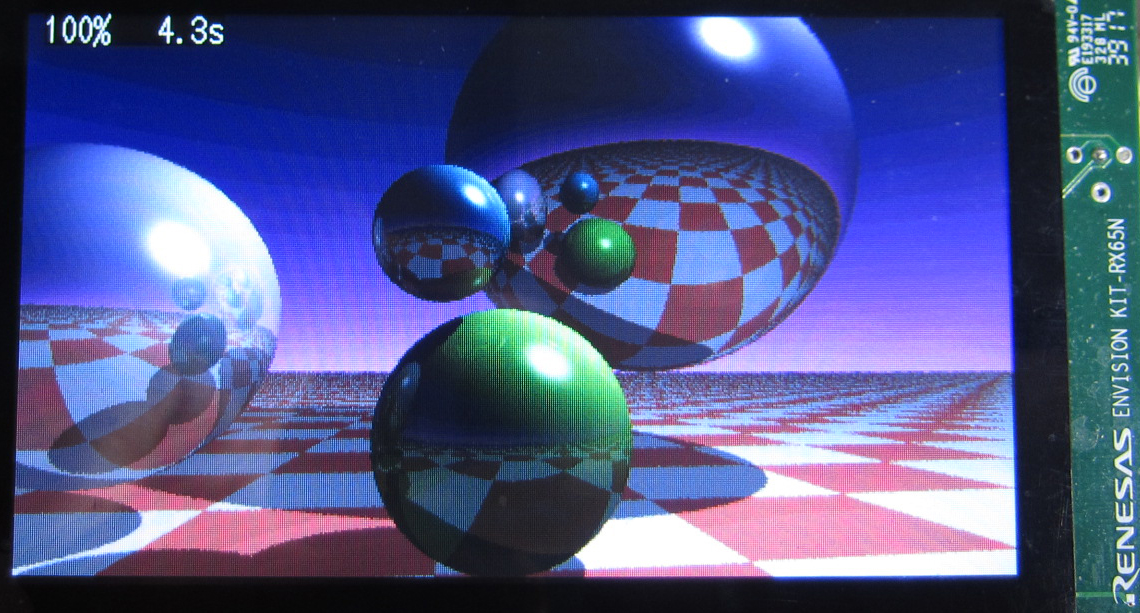
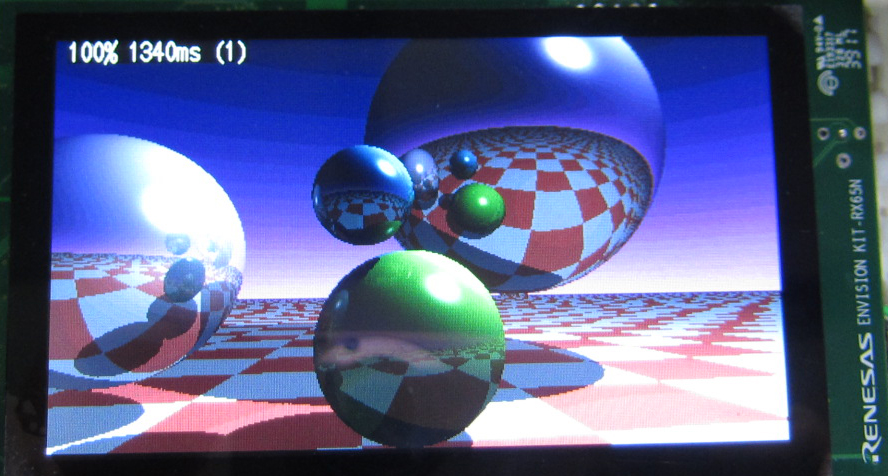
update: sampling count to 1

diff --git a/RTK5_RAYTRACER/raytracer.hpp b/RTK5_RAYTRACER/raytracer.hpp
@@ -347,21 +347,14 @@ void doRaytrace(int raysPerPixel = 4, int dw = 320, int dh = 240, int q = 1)
 ///      if(q==1) display.drawPixel(x, y, RGBTO565(r,g,b));
 ///      else display.fillRect(x, y, q, q, RGBTO565(r,g,b));
     }
-// workaround for ESP8266 which reboots after staying too long in the loops (WTF-watchdog?)
-#ifdef ESP8266
-    delay(1);
-#endif
 
     char buf[50];
-	auto tm = (millis() - t) / 100;
-///    snprintf(buf,100,"%3d%% %3ds", (y+q)*100/dh, (millis()-t)/1000);
-	utils::sformat("%3d%% %3d.%ds", buf, sizeof(buf)) % ((y+q)*100/dh) % (tm / 10) % (t % 10);
-///    display.setCursor(8,0);
-///    display.println(buf);
+	auto tm = millis() - t;
+	utils::sformat("%3d%% %dms (%d)", buf, sizeof(buf)) % ((y+q)*100/dh) % tm % raysPerPixel;
 	draw_text(8, 0, buf);
   }
   {
-	auto tm = (millis() - t) / 100;
-	utils::format("Render time: %3d.%ds\n") % (tm / 10) % (t % 10);
+	auto tm = millis() - t;
+	utils::format("Render time: %dms (%d)\n") % tm % raysPerPixel;
   }
 }

diff --git a/RTK5_RAYTRACER/main.cpp b/RTK5_RAYTRACER/main.cpp
@@ -313,6 +313,7 @@ int main(int argc, char** argv)
 
 	uint8_t n = 0;
 	bool sw = false;
+	uint8_t asq = 1;
 	while(1) {
 		glcdc_io_.sync_vpos();
 		bool v = !SW2::P();
@@ -324,6 +325,8 @@ int main(int argc, char** argv)
 			} else {
 				render_width_ = 320;
 				render_height_ = 240;
+				++asq;
+				if(asq > 4) asq = 1;
 			}
 			run_ = false;
 		}
@@ -334,7 +337,7 @@ int main(int argc, char** argv)
 		command_();
 		if(!run_) {
 //			uint32_t org = glcdc_io_.get_vpos();
-			doRaytrace(4, render_width_, render_height_);
+			doRaytrace(asq, render_width_, render_height_);
 //			uint32_t t = glcdc_io_.get_vpos() - org;
 //			char tmp[32];
 //			utils::sformat("%d.%d [sec]", tmp, sizeof(tmp)) % (t / 60) % ((t / 6) % 10);
